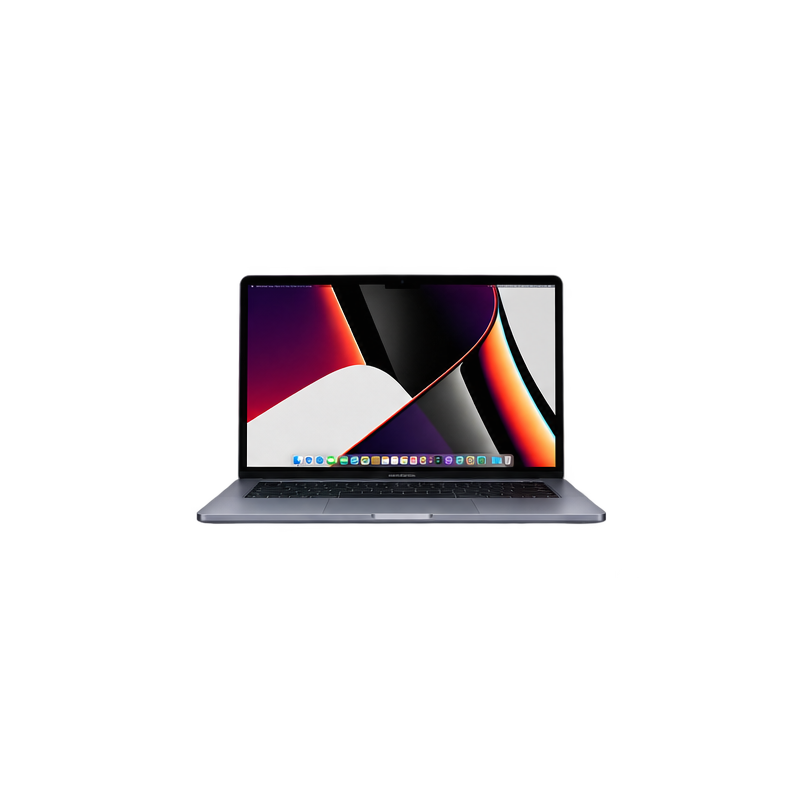
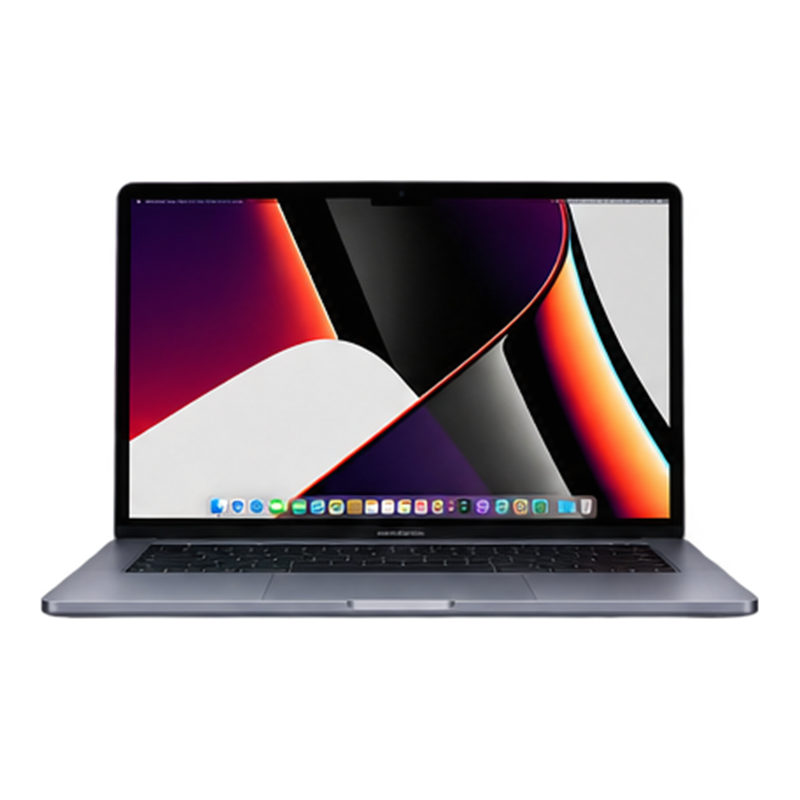
fix(mac): asignar y optimizar imagen para MacBook Pro 16 M1 2021 512GB (/mac/macbook16-m12021-512.png)

diff --git a/lib/data.ts b/lib/data.ts
@@ -33,7 +33,7 @@ export const MACBOOKS = [
     screen: "Liquid Retina XDR de 16.2\"",
     battery: "Hasta 21 horas de batería",
     ports: "3x Thunderbolt 4, HDMI, SDXC, MagSafe 3",
-    image: "https://images.unsplash.com/photo-1517336714731-489689fd1ca8?auto=format&fit=crop&w=800&q=80"
+    image: "/mac/macbook16-m12021-512.png"
   },
   {
     slug: "macbook-pro-16-m1-2021-1tb",
